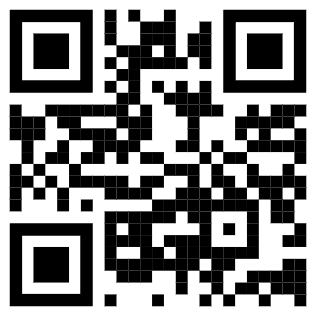
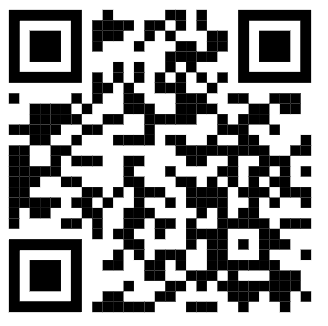
1111111111

diff --git a/index.html b/index.html
@@ -39,7 +39,7 @@
 </block>
 	
 <block>
-<input id="foo" value="https://kntios.github.io/">
+<input id="foo" value="https://kntios.github.io/khoi">
 <button class="btn" data-clipboard-target=#foo> Coppy Text</button>
 <script src="https://cdnjs.cloudflare.com/ajax/libs/clipboard.js/1.6.1/clipboard.min.js"></script>
 <script type="text/javascript">
@@ -58,7 +58,7 @@ new Clipboard('.btn');
     <script>
         function accessURL() {
             const inputData = document.getElementById("inputData").value; // Lấy giá trị từ input
-            const baseURL = "https://script.google.com/macros/s/AKfycbwOU0215GtOEqz8D0bCVDR9yhSRrWo7k-xHOXHWiNU4XBRKFIjeAu-gKKkIdPiLET7ahw/exec?"; // URL cơ bản
+            const baseURL = "https://script.google.com/macros/s/AKfycbz_PL9CPn_JWQCG0r9VPoTRVIEPSpkA-e3abbTBN8nS-HQ1e1b4rPGLCRT8TKegr7-EJw/exec?"; // URL cơ bản
             let selectedData = "";
             
             // Lấy giá trị từ radio button được chọn (chỉ có một)
